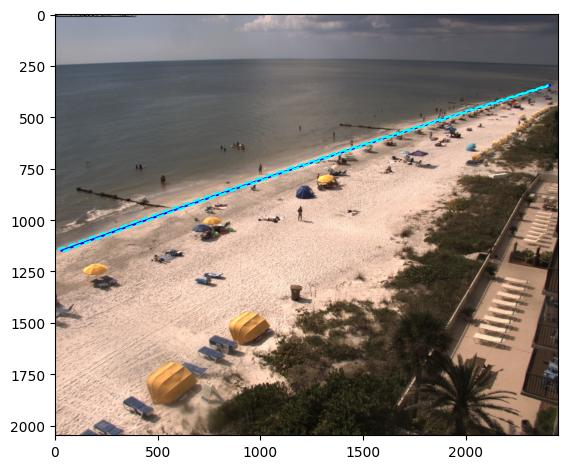
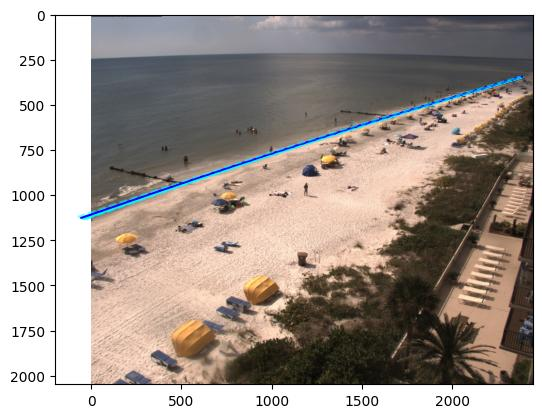
add polygon for showing uncertainty bands

diff --git a/plotForecastFromS3PlusTWL.py b/plotForecastFromS3PlusTWL.py
@@ -675,16 +675,34 @@ for i in range(0, len(num)):
     TWLv[:,i] = UV[:,1]
 
 ## plot forecast ##
+flipped95u = np.flip(TWLu[2,:])
+flipped95v = np.flip(TWLv[2,:])
+polygonPoints = []
+for i in range(len(TWLu[0,:])):
+   #append points from 5% uncertainty to list of polygon points first
+   polygonPoints.append([TWLu[0,:][i], TWLv[0,:][i]])
+
+for i in range(len(TWLu[2,:])):
+   #append points from 95% uncertainty to list of polygon points next
+   polygonPoints.append([flipped95u[i], flipped95v[i]])
+
+polygonPoints = np.array(polygonPoints)   
+uncertaintyPolygon = plt.Polygon(polygonPoints, closed=True, fill=True, alpha=0.5, color='cyan')
+    
 fig, ax = plt.subplots()
 ax.imshow(snap)
 #TWL
 ax.plot(TWLu[1,:], TWLv[1,:], color='blue', linestyle='-', fillstyle='full')
 #TWL 5% uncertainty
-ax.plot(TWLu[0,:], TWLv[0,:], color='cyan', linestyle='--', fillstyle='full')
+ax.plot(TWLu[0,:], TWLv[0,:], color='cyan', linestyle='--', fillstyle='full', alpha=0.5)
 #TWL 95% uncertainty
-ax.plot(TWLu[2,:], TWLv[2,:], color='cyan', linestyle='--', fillstyle='full')
-plt.tight_layout()
+ax.plot(TWLu[2,:], TWLv[2,:], color='cyan', linestyle='--', fillstyle='full', alpha=0.5)
+ax.add_patch(uncertaintyPolygon)
 plt.savefig('forecasted_img.jpg', bbox_inches='tight')
+
+
+
+###########FIX coords going off bounds of image
 plt.show()
 
 print('End:', datetime.datetime.now())
